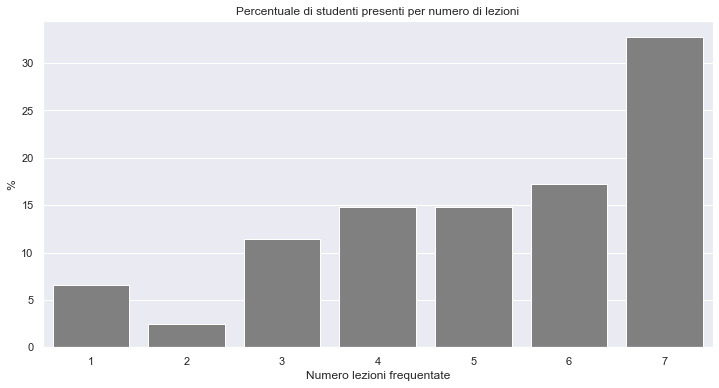
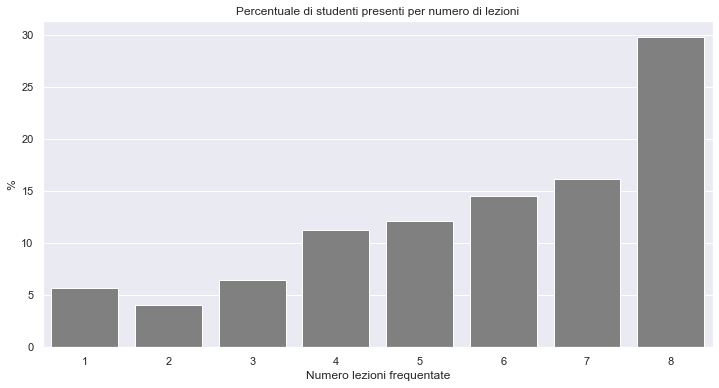
Updated stats

diff --git a/sito/frequenze.md b/sito/frequenze.md
@@ -8,7 +8,7 @@ Questa pagina contiene una analisi *aggregata* delle informazioni riguardanti la
 
 Il primo grafico riporta il numero assoluto di studenti presenti 
 per ciascuna lezione che si è svolta alla data odierna, in media
-sono stati presenti **89.14** ($\sigma=7.17$) studenti.
+sono stati presenti **89.5** ($\sigma=6.71$) studenti.
 
 
 
@@ -21,7 +21,7 @@ sono stati presenti **89.14** ($\sigma=7.17$) studenti.
 
 
 Il grafico seguente riporta la percentuale degli studenti (rispetto al numero 
-totale **122** di studenti che hanno assistito ad almeno una lezione), che sono stati 
+totale **124** di studenti che hanno assistito ad almeno una lezione), che sono stati 
 presenti ad un dato numero di lezioni.
 
 
